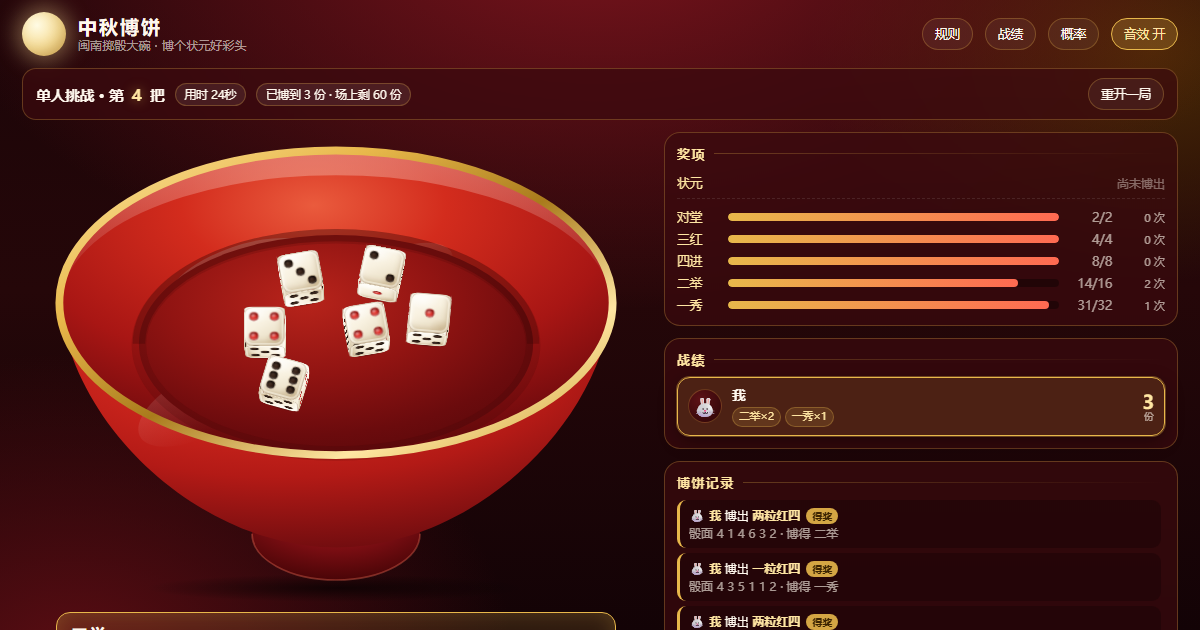
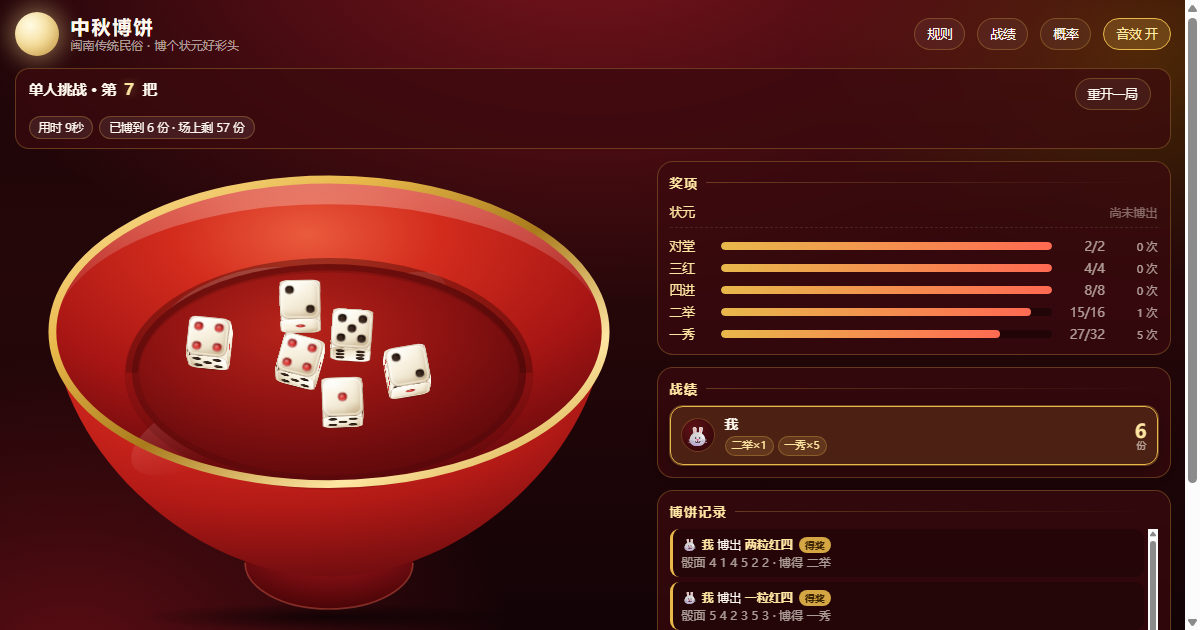
改名为「中秋博饼」；README 修正三处不准确内容
名字（用户从三个候选里选了最干净的那个）：
- <title> / og:title / twitter:title：→ 「中秋博饼」
- 顶栏副标题：闽南中秋博饼 · 博个状元好彩头 → 闽南传统民俗 · 博个状元好彩头
  （原来紧挨着主名又重复了一遍「中秋博饼」）
- README 标题：# 中秋博饼 🎲
- preview.png 重新生成（旧图里烤进了「闽南掷骰大碗」，社交分享会看到）

README 内容修正：
- 「自定义奖项数量」原来写「每一级多少份都能改」，不准确 ——
  状元固定 1 份不可改（这是核心规则），只有对堂/三红/四进/二举/一秀 五级能改
- 自检断言数 223 → 241
- 补充：概率表 12 行合计 69.35%，剩下 30.65% 是「无红四」，
  说明为什么加起来不到 100%
- 功能补一条「桌面 / 手机双端适配」

另加 2 条断言守住新名字（标题不重复出现「中秋博饼」、og:title 与 <title> 一致），
已用反证确认会报警。

Changed region(s): [[0.0, 0.0, 1.0, 1.0], [0.0, 0.0, 0.2158, 0.0905], [0.555, 0.2111, 0.74, 0.3016]]

diff --git a/index.html b/index.html
@@ -3,20 +3,20 @@
 <head data-page-node-id="SMHbRdgkaBpNIsTSAbCtcE">
 <meta charset="utf-8" data-page-node-id="24umd8gCSLjNJXS8GGR1Mv">
 <meta name="viewport" content="width=device-width,initial-scale=1,viewport-fit=cover" data-page-node-id="ZvJ6uN3dW5TUqR2aDEqeYN">
-<title>中秋博饼 · 闽南中秋博饼</title>
+<title>中秋博饼</title>
 <meta name="description" content="闽南中秋博饼小游戏 —— 六颗骰子丢进大红碗博状元。2-6 人传阅、单人挑战、状元可夺、实时概率统计，打开就能玩。">
 <meta name="theme-color" content="#5c0709">
 <meta name="apple-mobile-web-app-capable" content="yes">
 <meta name="apple-mobile-web-app-status-bar-style" content="black-translucent">
 <meta property="og:type" content="website">
-<meta property="og:title" content="中秋博饼 · 闽南中秋博饼">
+<meta property="og:title" content="中秋博饼">
 <meta property="og:description" content="六颗骰子丢进大红碗博状元 —— 状元插金花最大，状元饼随时可能被夺走。打开就能玩。">
 <link rel="canonical" href="https://woo3an.github.io/bobing/">
 <meta property="og:url" content="https://woo3an.github.io/bobing/">
 <meta property="og:site_name" content="中秋博饼">
 <meta property="og:image" content="https://woo3an.github.io/bobing/preview.png">
 <meta name="twitter:card" content="summary_large_image">
-<meta name="twitter:title" content="中秋博饼 · 闽南中秋博饼">
+<meta name="twitter:title" content="中秋博饼">
 <meta name="twitter:image" content="https://woo3an.github.io/bobing/preview.png">
[2 lines of base64/hex data omitted]
@@ -457,7 +457,7 @@ html:not(.booted) #view-table,html:not(.booted) #fx{display:none !important}
   <!-- 顶栏 -->
   <div class="topbar" data-page-node-id="33vkngPpEAd7OfG4hAPEHx">
     <div class="moon" data-page-node-id="cDON8q8C7HEIn8lCX5miUd"></div>
-    <div class="brand" data-page-node-id="Lt0GDZJxK65EkLtfgP1qGI"><b data-page-node-id="fGB2uyuEuVqEsPRVHAowOd">中秋博饼</b><span data-page-node-id="CIR0QLg2VadTCylDogyv2M">闽南中秋博饼 · 博个状元好彩头</span></div>
+    <div class="brand" data-page-node-id="Lt0GDZJxK65EkLtfgP1qGI"><b data-page-node-id="fGB2uyuEuVqEsPRVHAowOd">中秋博饼</b><span data-page-node-id="CIR0QLg2VadTCylDogyv2M">闽南传统民俗 · 博个状元好彩头</span></div>
     <div class="spacer" data-page-node-id="E2VY6aUB1xy2KAZLBZoLkS"></div>
     <button class="tbtn" id="btn-rules" data-page-node-id="wgPzYSnU18o3OMNlYr3bbL">规则</button>
     <button class="tbtn" id="btn-hist" data-page-node-id="m8v5z2KdnDHTrpUOKV0E0k">战绩</button>
@@ -2849,6 +2849,14 @@ window.__game = {
         all.replace(/博饼/g, '').indexOf('饼') < 0, all.trim());
       ok('顶栏仍保留「中秋博饼」主名', brand.querySelector('b').textContent.indexOf('中秋博饼') >= 0,
         brand.querySelector('b').textContent);
+      /* 产品名已定为「中秋博饼」（用户从三个候选里选的），标题不许再重复出现它 ——
+         "中秋博饼 · 闽南中秋博饼" 这种写法就是之前被否掉的。
+         数法：split 后长度 2 表示恰好出现一次。 */
+      ok('网页标题不重复出现「中秋博饼」',
+        document.title.split('中秋博饼').length === 2, '「' + document.title + '」');
+      ok('og:title 与网页标题一致',
+        (document.querySelector('meta[property="og:title"]') || {}).content === document.title,
+        (document.querySelector('meta[property="og:title"]') || {}).content);
     })();
 
     testPhaseBarStable();

diff --git a/README.md b/README.md
@@ -1,4 +1,4 @@
-# 中秋博饼 · 闽南掷骰大碗 🎲
+# 中秋博饼 🎲
 
 一个单文件的闽南中秋博饼网页小游戏 —— **打开就能玩，不用装任何东西**。
 
@@ -27,6 +27,9 @@
 > 单个骰面组合都是 1/46656 ≈ 0.002% —— 「黑六勃」之所以是 0.009%，是因为它把
 > **222222 / 333333 / 555555 / 666666** 四种骰面合在一起算。换成单个点数看，
 > **六个一、六个四、六个六完全同概率**。
+>
+> 上表（有奖的等级）合计 **69.35%**，剩下的 **30.65%** 是「无红四」——
+> 一颗红四都没有，本轮空手。所以这 12 行加起来只有 69.35%，没到 100% 是正常的。
 
 规则要点：
 
@@ -39,7 +42,9 @@
 ## 功能
 
 - **2–6 人本地传阅** / **单人挑战**（一项设备围一圈轮流博）
-- **自定义奖项数量** —— 每一级多少份都能改，总数自动跟着变
+- **桌面 / 手机双端适配** —— 响应式布局，手机上碗与骰子自动缩到合适大小，排版不会跳
+- **自定义奖项数量** —— 除状元（固定 1 份，因为它「唯一、可被更大的状元夺走」）外，
+  对堂 / 三红 / 四进 / 二举 / 一秀 各级多少份都能改，总数自动跟着变
 - **实时概率统计** —— 每个奖项的理论概率（穷举 46656 种骰面组合精确算出）+ 本局实际频率对照
 - **完整碗型建模** —— 内联 SVG 画的整只碗：碗口、外壁、圈足、碗底，同一个透视
 - **物理骰子** —— 六颗同时抛出，真刚体模拟（弹跳 / 互相碰撞 / 撞碗壁），无穿模
@@ -66,7 +71,7 @@ python -m http.server 8000
 - `?demo=N` —— 直接开一桌 4 人并先博 N 次
 - `?demo=N&solo=1` —— 直接进单人挑战
 - `&open=rules|hist|stat|result` —— 直接打开对应弹层
-- `?selftest=exhaustive|flow|steal|input|rules|dice|solo|quota` —— 自检探针（223 项断言）
+- `?selftest=exhaustive|flow|steal|input|rules|dice|solo|quota` —— 自检探针（8 组共 241 项断言）
 
 ---
 
